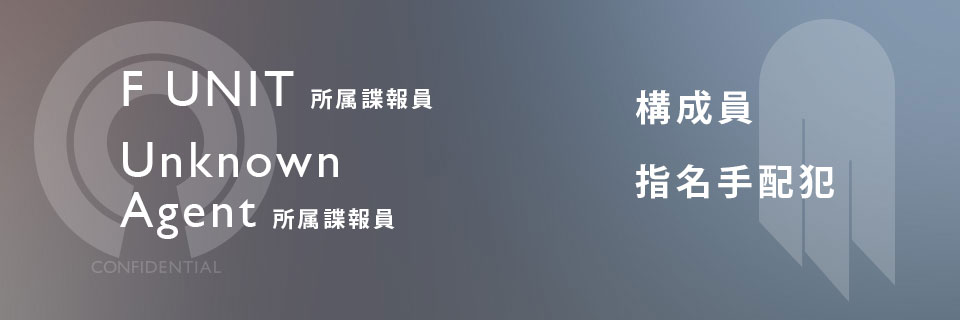
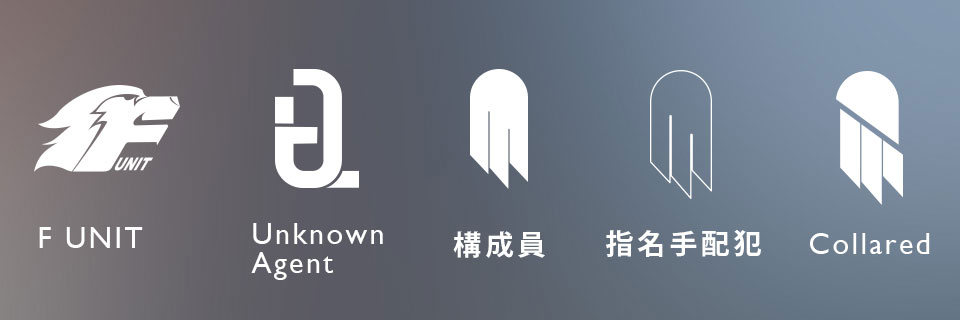
新役職追加に伴う修正

diff --git a/src/pages/chara_collared.js b/src/pages/chara_collared.js
@@ -1,0 +1,37 @@
+import React from "react"
+import "../assets/scss/contents.scss"
+
+const CharaCollared = () => (
+  <div>
+    <h1>Collared（元構成員/元指名手配犯）</h1>
+    タグ：<a href="https://twitter.com/intent/tweet?hashtags=CONF_CS,CONF_Collared" className="twitter-hashtags-btn" target="_blank">#CONF_CS #CONF_Collared</a>
+    <div className="character_head">
+      <span className="icon-logo-Collard"></span>
+      <p><span>【CS記載事項】<br/>構成員/指名手配犯の項目を参照。<br/>それぞれの設定も必ず確認すること。</span></p>
+    </div>
+    <p>
+    Ghostが捕まった/自首した際はC機関の隔離施設で無期懲役、又は死刑となる。
+    しかし、<span>一部の有益な情報を持った者や、捜査に協力的な人間を協力者として組織に所属させる司法取引をした者</span>をCollaredと呼ぶ。
+    Collaredになる事で<span>服役中の待遇がよくなる(また、死刑囚の場合は死刑から無期懲役に変更される)</span>
+    F/UAのどちらの組織にも属さず、あくまで<span>C機関に属しているという体が保たれている。(監督責任のなすりつけあいが組織間で行われることは度々ある)</span>
+    </p>
+    <h2>●捜査協力</h2>
+    <p>
+    捜査協力には申請が必要、脱走の防止/Ghostからの保護の観点から<span>基本的にはC機関本部内の隔離施設内で可能な捜査協力を主</span>にしているが、
+    必要があれば<span>外出許可を得ることで外部捜査への同行も可能。</span>
+    <span>もちろん単独での外出は不可能。</span>
+    <span>バディに同行</span>する形で捜査に加わる。バディには監督責任が伴う。
+    </p>
+    <h2>●"首輪"</h2>
+    <p>
+    Colleredは<span>首の後ろに極小のチップ</span>が埋め込まれており<span>位置情報と音声が常に監視</span>されている。
+    <span>隔離施設から逃走しようとした場合は爆破する。</span>
+    <span>外出時にはバディどちらかと1日以上一定距離(数百km程度)を離れると自動的に爆発</span>する仕組みになっている。
+    <span>取り出す/破壊/機能の停止は不可能。</span>過去取り外そうとした者は死亡している。
+    <span>見た目はほくろのような小さな黒い点。</span>じっくり見なければわからない程度。
+    </p>
+    <div>CSテンプレートは<a href ="/material">こちら</a></div>
+  </div>
+)
+
+export default CharaCollared

diff --git a/src/pages/character.js b/src/pages/character.js
@@ -7,6 +7,7 @@ import CharaMember from './chara_member'
 import CharaWanted from './chara_wanted'
 import ArticleWrapper from '../components/articleWrapper'
 import { window } from 'ssr-window'
+import CharaCollared from "./chara_collared"
 
 const Character = (props) => {
   const [checkedTab, setCheckedTab] = React.useState("tab1")
@@ -41,22 +42,27 @@ const Character = (props) => {
           onClick={onClickTab}
           checked={checkedTab === "tab1"}
         />
-        <label className="tab_item" htmlFor="tab1">F</label>
+        <label className="tab_item" htmlFor="tab1"><span className="icon-logo-F"></span></label>
         <input id="tab2" type="radio" name="tab_item"
           onClick={onClickTab}
           checked={checkedTab === "tab2"}
         />
-        <label className="tab_item" htmlFor="tab2">UA</label>
+        <label className="tab_item" htmlFor="tab2"><span className="icon-logo-UA"></span></label>
         <input id="tab3" type="radio" name="tab_item"
           onClick={onClickTab}
           checked={checkedTab === "tab3"}
         />
-        <label className="tab_item" htmlFor="tab3">構成員</label>
+        <label className="tab_item" htmlFor="tab3"><span className="icon-logo-G"></span></label>
         <input id="tab4" type="radio" name="tab_item"
           onClick={onClickTab}
           checked={checkedTab === "tab4"}
         />
-        <label className="tab_item" htmlFor="tab4">指名手配犯</label>
+        <label className="tab_item" htmlFor="tab4"><span className="icon-logo_G_outline"></span></label>
+        <input id="tab5" type="radio" name="tab_item"
+          onClick={onClickTab}
+          checked={checkedTab === "tab5"}
+        />
+        <label className="tab_item" htmlFor="tab5"><span className="icon-logo-Collard"></span></label>
         <div className="tab_content" id="tab1_content">
           <div className="tab_content_description">
             <CharaF />
@@ -75,6 +81,11 @@ const Character = (props) => {
         <div className="tab_content" id="tab4_content">
           <div className="tab_content_description">
             <CharaWanted />
+          </div>
+        </div>
+        <div className="tab_content" id="tab5_content">
+          <div className="tab_content_description">
+            <CharaCollared />
           </div>
         </div>
       </div>

diff --git a/src/pages/material_content.js b/src/pages/material_content.js
@@ -3,12 +3,15 @@ import "../assets/scss/material.scss"
 import CS_info from "../images/CS_info.png"
 import CS_C from "../images/CS_C.png"
 import CS_G from "../images/CS_G.png"
+import CS_Collared from "../images/CS_Collared.png"
 import CS_G_penetrate from "../images/CS_G_penetrate.png"
 import CS_C_penetrate from "../images/CS_C_penetrate.png"
+import CS_Collared_penetrate from "../images/CS_Collared_penetrate.png"
 import logo_C from "../images/logo_C.png"
 import logo_F from "../images/logo_F.png"
 import logo_UA from "../images/logo_UA.png"
 import logo_G from "../images/logo_G.png"
+import logo_Collared from "../images/logo_Collared.png"
 import rerationship from "../images/rerationship.png"
 import rerationship_penetrate from "../images/rerationship_penetrate.png"
 
@@ -26,6 +29,9 @@ const MaterialContent = (props) => {
         <p>・Ghost 構成員 / 指名手配犯</p>
         <p>ダウンロード：<a href={CS_G_penetrate} download="CS_Ghost_透過">透過png</a> / <a href={CS_G} download="CS_Ghost">背景あり</a></p>
         <img id="CS_G" src={CS_G} onClick={props.onClickImage} />
+        <p>・C機関 Collared</p>
+        <p>ダウンロード：<a href={CS_Collared_penetrate} download="CS_Ghost_透過">透過png</a> / <a href={CS_Collared} download="CS_Ghost">背景あり</a></p>
+        <img id="CS_Collared" src={CS_Collared} onClick={props.onClickImage} />
       </span>
       <h2>関係募集シート</h2>
       <span className="image main">
@@ -41,7 +47,9 @@ const MaterialContent = (props) => {
       <img className="logoImage" src={logo_UA} />
       ダウンロード：<a href={logo_UA} download="logo_UA">透過png</a><br/>
       <img className="logoImage" src={logo_G} />
-      ダウンロード：<a href={logo_G} download="logo_G">透過png</a>
+      ダウンロード：<a href={logo_G} download="logo_G">透過png</a><br/>
+      <img className="logoImage" src={logo_Collared} />
+      ダウンロード：<a href={logo_Collared} download="logo_Collared">透過png</a>
     </div>
   )
 }

diff --git a/src/assets/css/style.css b/src/assets/css/style.css
@@ -1,10 +1,10 @@
 @font-face {
   font-family: 'icomoon';
-  src:  url('../fonts/icomoon.eot?u6v5un');
-  src:  url('../fonts/icomoon.eot?u6v5un#iefix') format('embedded-opentype'),
-    url('../fonts/icomoon.ttf?u6v5un') format('truetype'),
-    url('../fonts/icomoon.woff?u6v5un') format('woff'),
-    url('../fonts/icomoon.svg?u6v5un#icomoon') format('svg');
+  src:  url('../fonts/icomoon.eot?hjez2m');
+  src:  url('../fonts/icomoon.eot?hjez2m#iefix') format('embedded-opentype'),
+    url('../fonts/icomoon.ttf?hjez2m') format('truetype'),
+    url('../fonts/icomoon.woff?hjez2m') format('woff'),
+    url('../fonts/icomoon.svg?hjez2m#icomoon') format('svg');
   font-weight: normal;
   font-style: normal;
   font-display: block;
@@ -25,6 +25,10 @@
   -moz-osx-font-smoothing: grayscale;
 }
 
+.icon-logo-Collard:before {
+  content: "\e905";
+  color: #fff;
+}
 .icon-logo_G_outline:before {
   content: "\e904";
   color: #fff;

diff --git a/src/assets/scss/contents.scss b/src/assets/scss/contents.scss
@@ -34,7 +34,8 @@
     }
     .icon-logo-UA,
     .icon-logo-G,
-    .icon-logo_G_outline {
+    .icon-logo_G_outline,
+    .icon-logo-Collard {
       flex-basis:auto;
       font-size: 80px;
       margin: auto;
@@ -43,8 +44,8 @@
 }
 .tab_item {
   padding-top: 5px;
-  height: 30px;
-  width: calc(100%/4);
+  height: 50px;
+  width: calc(100%/5);
   border-bottom: 3px solid #636363 ;
   background-color: #222222;
   text-align: center;
@@ -70,7 +71,8 @@ input[name="tab_item"] {
 #tab1:checked ~ #tab1_content,
 #tab2:checked ~ #tab2_content,
 #tab3:checked ~ #tab3_content,
-#tab4:checked ~ #tab4_content {
+#tab4:checked ~ #tab4_content,
+#tab5:checked ~ #tab5_content {
   display: block;
 }
 .tab_container input:checked + .tab_item {
@@ -83,7 +85,7 @@ input[type="radio"] + label:before {
 }
 
 input[type="checkbox"] + label, input[type="radio"] + label {
-  font-size: 10px;
+  font-size: 30px;
 }
 
 

diff --git a/src/pages/chara_wanted.js b/src/pages/chara_wanted.js
@@ -5,7 +5,7 @@ import headG from '../images/head_g.jpg'
 const CharaWanted = () => (
   <div>
     <h1>指名手配犯</h1>
-    タグ：<a href="https://twitter.com/intent/tweet?hashtags=CONF_CS, CONF_指名手配犯" className="twitter-hashtags-btn" target="_blank">#CONF_CS #CONF_指名手配犯</a>
+    タグ：<a href="https://twitter.com/intent/tweet?hashtags=CONF_CS,CONF_指名手配犯" className="twitter-hashtags-btn" target="_blank">#CONF_CS #CONF_指名手配犯</a>
     <div className="character_head">
       <span className="icon-logo_G_outline"></span>
       <p><span>【CS記載事項】<br/>・名前 (偽名/コードネーム可）<br/>・年齢 (意思疎通ができ、<br/>組織に何らかの貢献ができる程度)<br/>・性別 (男/女)<br/>・身長<br/>・どのような犯罪者か</span></p>

diff --git a/src/pages/chara_ua.js b/src/pages/chara_ua.js
@@ -4,7 +4,7 @@ import "../assets/scss/contents.scss"
 const CharaUA = () => (
   <div>
     <p className="p_bold">Unknown Agent所属</p>
-    タグ：<a href="https://twitter.com/intent/tweet?hashtags=CONF_CS, CONF_UA" className="twitter-hashtags-btn" target="_blank">#CONF_CS #CONF_UA</a>
+    タグ：<a href="https://twitter.com/intent/tweet?hashtags=CONF_CS,CONF_UA" className="twitter-hashtags-btn" target="_blank">#CONF_CS #CONF_UA</a>
     <div className="character_head">
       <span className="icon-logo-UA"></span>
       <p><span className="hi_light">【CS記載事項】<br/>・名前 (偽名/コードネーム可）<br/>・年齢 (24 ~ 60歳)<br/>・性別 (男/女)<br/>・身長</span></p>

diff --git a/src/pages/chara_f.js b/src/pages/chara_f.js
@@ -4,7 +4,7 @@ import "../assets/scss/contents.scss"
 const CharaF = () => (
   <div>
     <h1>F UNIT所属</h1>
-    タグ：<a href="https://twitter.com/intent/tweet?hashtags=CONF_CS, CONF_F" className="twitter-hashtags-btn" target="_blank">#CONF_CS #CONF_F</a>
+    タグ：<a href="https://twitter.com/intent/tweet?hashtags=CONF_CS,CONF_F" className="twitter-hashtags-btn" target="_blank">#CONF_CS #CONF_F</a>
     <div className="character_head">
       <span className="icon-logo-F"></span>
       <p><span>【CS記載事項】<br/>・名前 (偽名/コードネーム可）<br/>・年齢 (20 ~ 60歳)<br/>・性別 (男/女)<br/>・身長</span></p>

diff --git a/src/pages/chara_member.js b/src/pages/chara_member.js
@@ -5,7 +5,7 @@ import headG from '../images/head_g.jpg'
 const CharaMember = () => (
   <div>
     <h1>構成員</h1>
-    タグ：<a href="https://twitter.com/intent/tweet?hashtags=CONF_CS, CONF_構成員" className="twitter-hashtags-btn" target="_blank">#CONF_CS #CONF_構成員</a>
+    タグ：<a href="https://twitter.com/intent/tweet?hashtags=CONF_CS,CONF_構成員" className="twitter-hashtags-btn" target="_blank">#CONF_CS #CONF_構成員</a>
     <div className="character_head">
       <span className="icon-logo-G"></span>
       <p>
